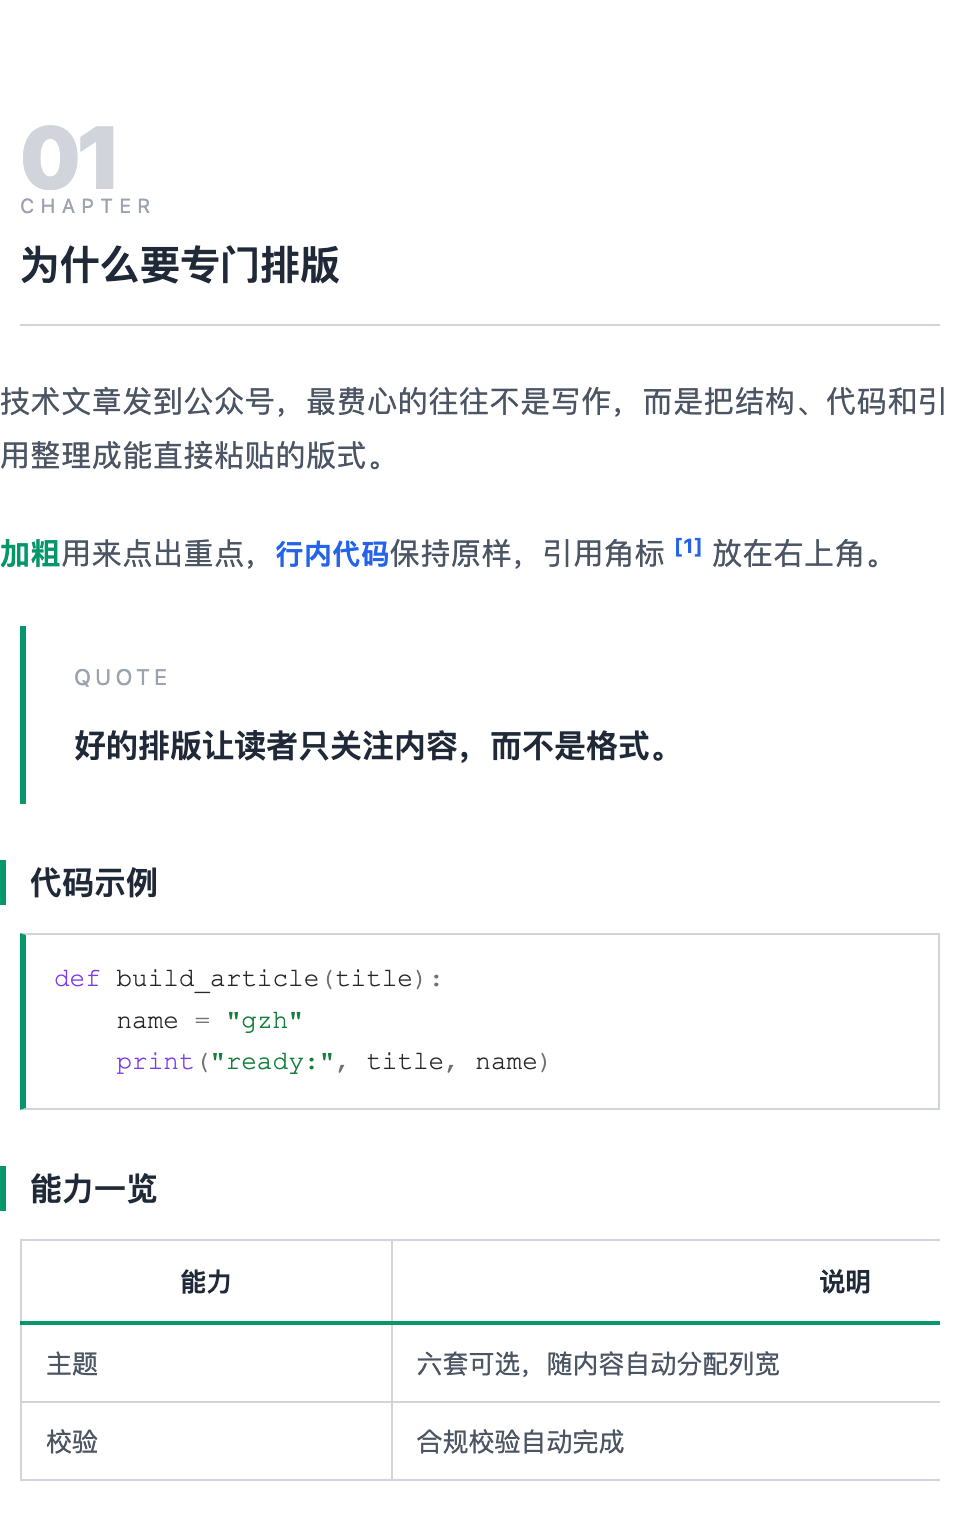
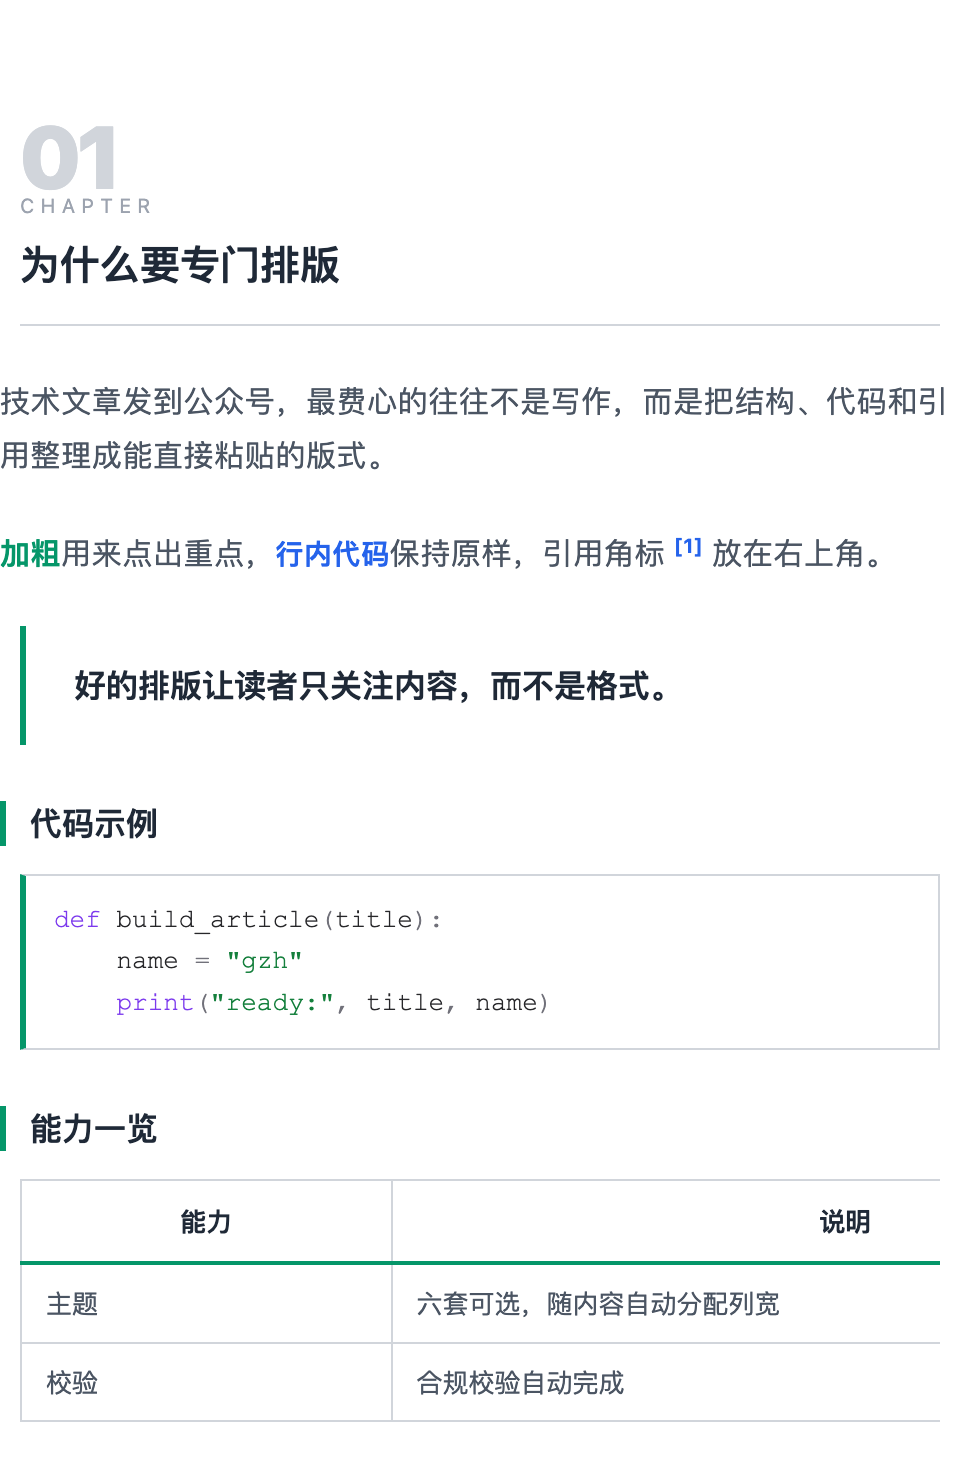
修复三端不一致：引用段去 QUOTE 标签+显式左对齐（微信手机默认两端对齐）；表格列宽内联到 th/td（微信剥离 colgroup 导致手机端平分列）；踩坑清单/约定同步；主题效果图重生成

diff --git a/scripts/md_to_gzh.py b/scripts/md_to_gzh.py
@@ -222,11 +222,13 @@ def h3(title, t):
             % (t["ink"], t["primary"], leaf(esc(title))))
 
 
-def quote_block(text, t, label="QUOTE"):
+def quote_block(text, t, label=None):
+    """引用段：竖线 + 加粗正文。不加任何装饰性英文标签（2026-11-25 用户定稿，
+    「QUOTE」字样影响阅读）；文字必须显式 text-align:left——微信手机端对
+    未指定的段落默认两端对齐，PC 浏览器默认左对齐，不写死会三端不一致。"""
     return ('<section style="border-left:3px solid %s;padding:16px 0 16px 24px;margin:0 10px 28px;">'
-            '<p style="font-size:11px;color:%s;letter-spacing:2px;margin:0 0 10px;">%s</p>'
-            '<p style="font-size:16px;font-weight:700;color:%s;margin:0;line-height:1.7;">%s</p>'
-            '</section>' % (t["primary"], t["muted"], leaf(label), t["ink"], leaf(esc(text))))
+            '<p style="font-size:16px;font-weight:700;color:%s;margin:0;line-height:1.7;text-align:left;">%s</p>'
+            '</section>' % (t["primary"], t["ink"], leaf(esc(text))))
 
 
 def image_block(src, alt, t):
@@ -304,9 +306,13 @@ def data_table(rows, t, col_widths=None, status_col=None):
            % (640 if ncol <= 2 else 650)]
     if col_widths and len(col_widths) == ncol:
         out.append('<colgroup>' + "".join('<col style="width:%d%%;">' % w for w in col_widths) + '</colgroup>')
+    # 列宽同时写在 colgroup（浏览器用）与每个 th/td 的内联样式上（微信编辑器
+    # 会剥离 colgroup——2026-11-25 手机实测列宽失效平分，三端一致必须写在
+    # 单元格上）。微信保留单元格内联样式。
+    wstyle = lambda ci: ("width:%d%%;" % col_widths[ci]) if (col_widths and len(col_widths) == ncol) else ""
     out.append("<tr>" + "".join(
-        '<th style="text-align:center;padding:9px 12px;border:1px solid %s;border-bottom:2px solid %s;color:%s;font-weight:800;white-space:nowrap;">%s</th>'
-        % (t["line"], t["primary"], t["ink"], leaf(esc(c))) for c in header) + "</tr>")
+        '<th style="text-align:center;padding:9px 12px;border:1px solid %s;border-bottom:2px solid %s;color:%s;font-weight:800;white-space:nowrap;%s">%s</th>'
+        % (t["line"], t["primary"], t["ink"], wstyle(ci), leaf(esc(c))) for ci, c in enumerate(header)) + "</tr>")
     for r in body:
         cells = (r + [""] * ncol)[:ncol]
         tds = []
@@ -314,8 +320,8 @@ def data_table(rows, t, col_widths=None, status_col=None):
             cell = inline(c, t)
             if status_col is not None and ci == status_col:
                 cell = '<span style="font-weight:800;color:%s;">%s</span>' % (t["ink"], leaf(esc(c)))
-            tds.append('<td style="padding:8px 12px;border:1px solid %s;color:%s;vertical-align:top;overflow-wrap:break-word;">%s</td>'
-                       % (t["line"], t["body"], cell))
+            tds.append('<td style="padding:8px 12px;border:1px solid %s;color:%s;vertical-align:top;overflow-wrap:break-word;%s">%s</td>'
+                       % (t["line"], t["body"], wstyle(ci), cell))
         out.append("<tr>" + "".join(tds) + "</tr>")
     out.append("</table></section>")
     return "".join(out)

diff --git a/references/user-conventions.md b/references/user-conventions.md
@@ -30,7 +30,8 @@
   不可断片段如 `@narumitw/pi-goal` + 内边距作保底，夹在 8%–60%）；
   显式传 `col_widths` 可覆盖。**禁止无 colgroup 的平均分列**。
 - **不要**把所有列都拉宽到 900/1100/1280px——用户明确批评过「无脑增宽」，电脑端要按内容可读。
-- 单元格**全边框**（`border:1px solid 线色`，含竖线网格，border-collapse:collapse）；
+- 列宽写在**每个 th/td 内联样式**上（微信剥离 colgroup，仅 colgroup 三端不一致）
+  + colgroup（浏览器）；单元格**全边框**（`border:1px solid 线色`，含竖线网格，border-collapse:collapse）；
   表头**居中对齐**、加粗、下边框主题色 2px；正文单元格左对齐。
   （2026-11-25 用户定稿：旧「表头左对齐、只有横线」口径作废。）
 

diff --git a/references/mp-wechat-notes.md b/references/mp-wechat-notes.md
@@ -54,4 +54,10 @@
 
 ## 短文章
 
+- **微信编辑器会剥离 `<colgroup>/<col>`**（2026-11-25 手机实测：colgroup 里的
+  列宽在公众号后台/手机端全部失效，table-layout:fixed 平分列宽；PC 浏览器预览
+  正常所以此前未发现）。列宽必须同时写在**每个 th/td 的内联样式**上。
+- 引用/正文的 `text-align` 必须显式写 `left`：微信手机端对未指定段落默认
+  两端对齐，PC 浏览器默认左对齐——不写死则三端不一致（手机「两端对齐」实拍）。
+- 引用段不加「QUOTE」等装饰性英文标签（用户定稿：影响阅读）。
 - 旧版用魔数 `正文长度<=200` 判注入失败，导致短文被重复粘贴。现按预期非空白字符数判定（下限=预期×0.7），每次尝试前先 `Ctrl+A`+`Delete` 清空。
